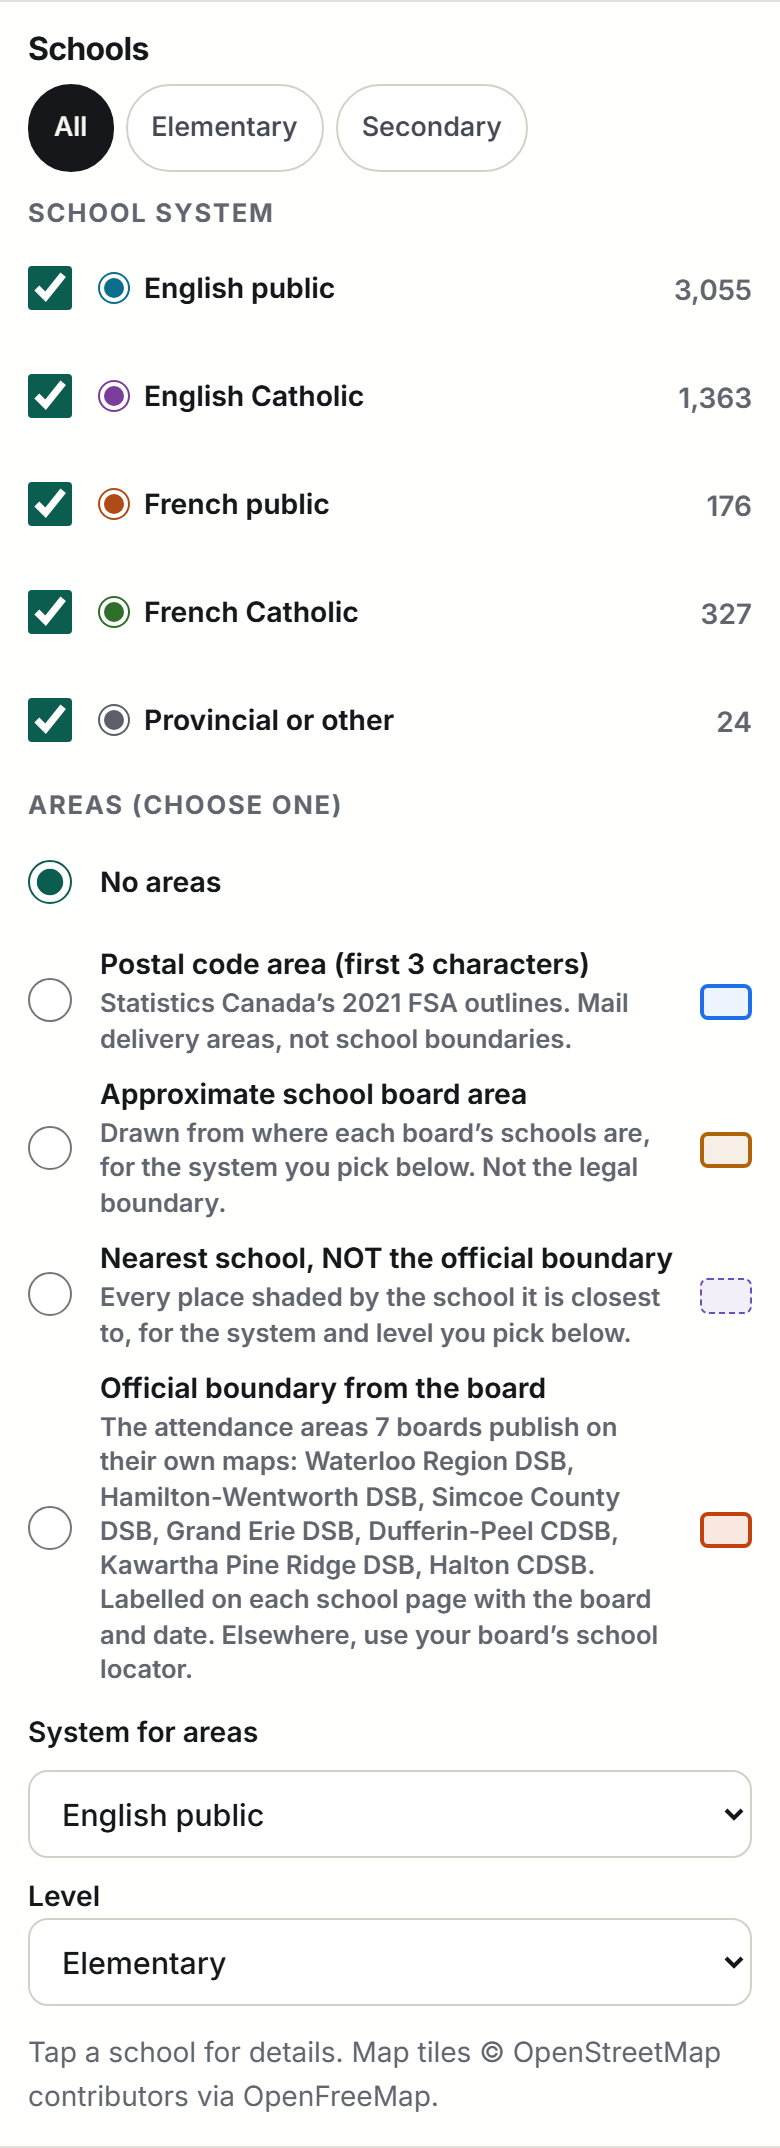
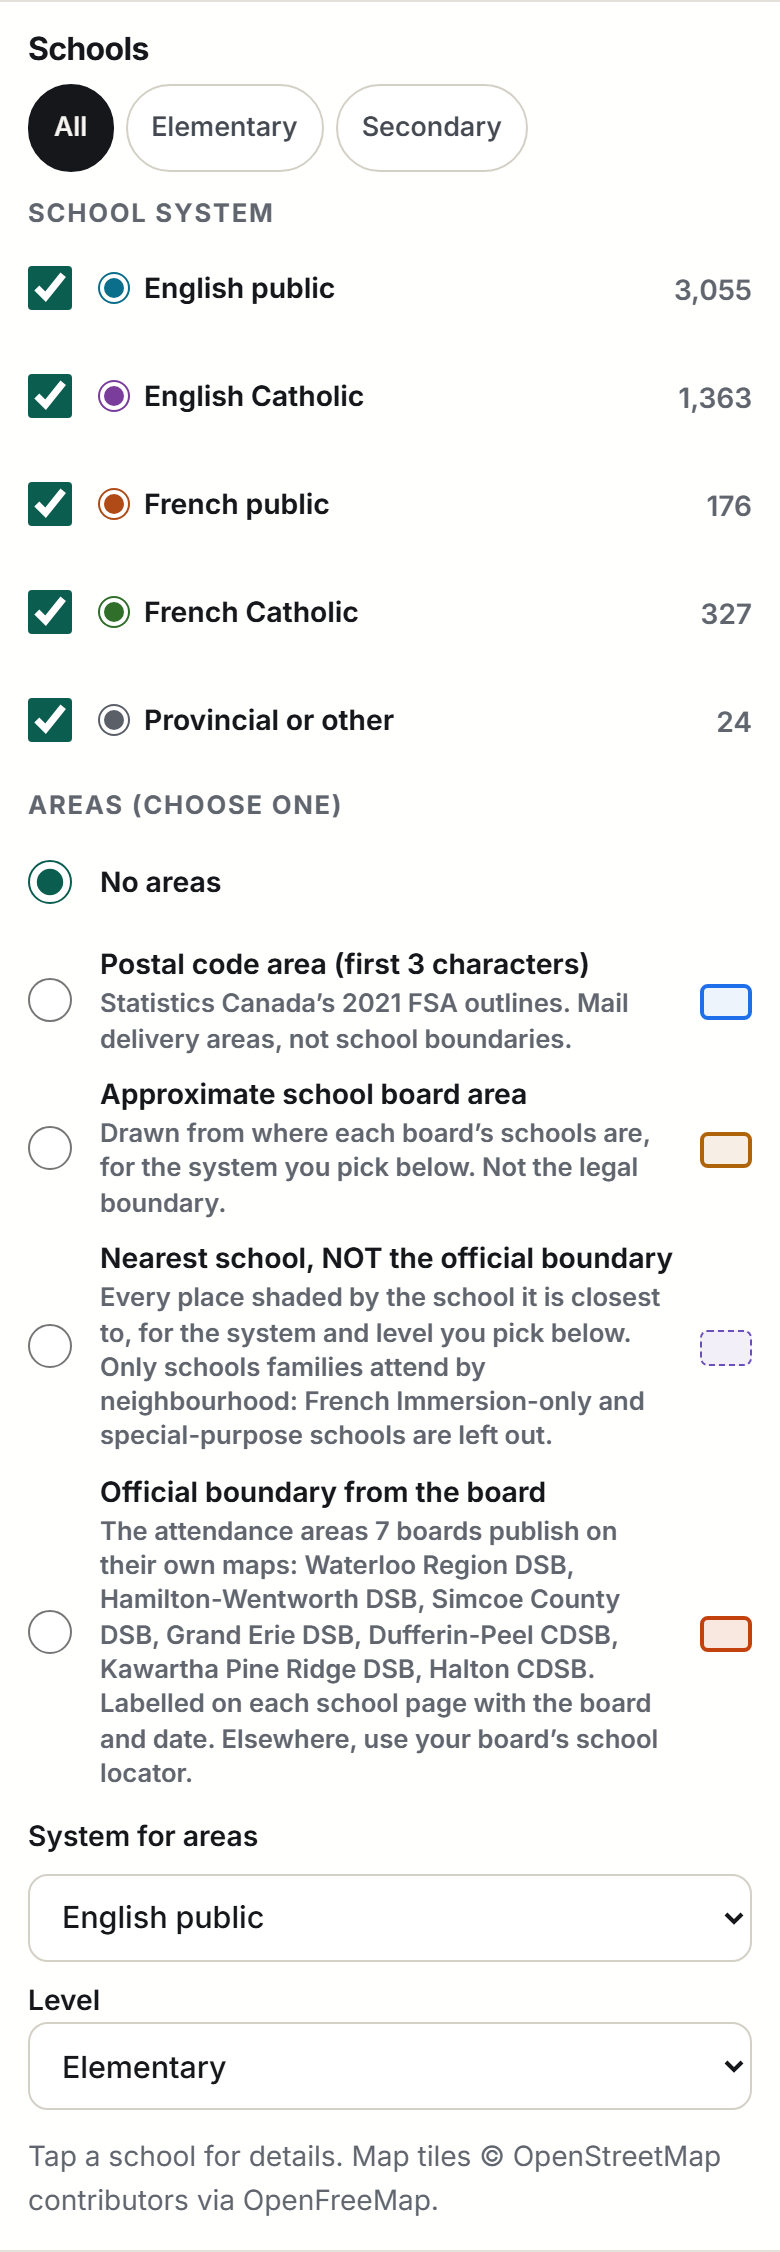
Flush: badges on postal-area lists, honest data licences, A to Z postal search
- Postal-area school lists show the same program badges as search,
  school, board and Compare pages.
- Data page: the per-school and per-board JSON also carry board
  boundaries (no licence, shown pending permission) and board spending
  (no licence stated), which the open-licence attribution doesn't cover;
  the attribution adds EQAO's "used under licence".
- Map: the nearest-school layer says Immersion-only and special-purpose
  schools are left out.
- Search: a postal-area search is already A to Z, so it no longer offers
  a misleading "Best match" order.
- Compare: drop the child-care row repeated from "At a glance".

diff --git a/site/templates/data.html b/site/templates/data.html
@@ -21,7 +21,8 @@
   <div class="doc" style="margin-top:40px">
     <div class="prose doc-main">
       <h2 id="licence">Licence and attribution</h2>
-      <p>The source data is published under the <a href="https://www.ontario.ca/page/open-government-licence-ontario" rel="noopener">Open Government Licence – Ontario</a> and the <a href="https://www.statcan.gc.ca/en/reference/licence" rel="noopener">Statistics Canada Open Licence</a>. If you reuse these files, please keep the source ids and include the attribution text in the box.</p>
+      <p>The CSV downloads come from data published under the <a href="https://www.ontario.ca/page/open-government-licence-ontario" rel="noopener">Open Government Licence – Ontario</a> (including EQAO’s open data, used under licence) and the <a href="https://www.statcan.gc.ca/en/reference/licence" rel="noopener">Statistics Canada Open Licence</a>. If you reuse these files, please keep the source ids and include the attribution text in the box.</p>
+      <p>The per-school and per-board JSON files also carry two things without an open licence: official attendance boundaries from seven boards’ public map layers (no licence stated; shown while we ask each board for permission) and board spending from the Ministry’s financial statements (published without a licence). The attribution doesn’t cover those; the licence of every source is on <a href="/methodology/#sources">How it works</a>. Information we summarise from boards’ own web pages is linked, not copied.</p>
       <p>Each row’s <code>source_id</code> matches a line in <code>sources.csv</code>, which lists the original URL, licence and retrieval date. Coded values (suppressed, not reported, not applicable) are empty with a <code>code</code> column — never 0. See <a href="/methodology/">How it works</a>.</p>
       <p>Per-school JSON files are at <code>/data/schools/&lt;BSID&gt;.json</code>, and the full pipeline report is at <a href="/data/report.md">/data/report.md</a>.</p>
     </div>
@@ -29,6 +30,7 @@
       <div class="card glance-card">
         <p class="eyebrow">Attribution to include</p>
         <pre class="attribution" id="attribution">Contains information licensed under the Open Government Licence – Ontario.
+EQAO data: used under licence (Education Quality and Accountability Office).
 Adapted from Statistics Canada, 2021 Census of Population and 2021 boundary files. This does not constitute an endorsement by Statistics Canada of this product.
 Compiled by Ontario School Finder ({{ site_url }}).</pre>
         <div class="doc-actions"><button class="btn btn-sm" type="button" data-copy="#attribution"><span>Copy the text</span></button></div>

diff --git a/site/static/js/search-page.js b/site/static/js/search-page.js
@@ -26,7 +26,8 @@ let heading = "";
 let shown = 30;
 let mapRows = [];
 let mapRef = null;
-let sortBy = ""; // "" = the default for the kind of search: nearest first for a location, best match for text
+let sortBy = ""; // "" = the default for the kind of search: nearest first for a location, best match for text, A to Z for a postal area
+let textSearch = true; // a postal-area search lists schools A to Z already, so it has no "best match" order
 let showUnknownGrades = false;
 if (!GRADE_ORDER.includes(filters.grade)) filters.grade = "all";
 
@@ -48,7 +49,7 @@ function applyFilters(rows) {
 // Order: best match (the search's own order), A to Z, or nearest first (straight-line, when there is a location).
 // There is deliberately no ordering by results: this is not a leaderboard.
 function sorted(rows) {
-  const by = sortBy || (distances ? "dist" : "rel");
+  const by = sortBy || (distances ? "dist" : textSearch ? "rel" : "az");
   if (by === "az") return [...rows].sort((a, b) => a.n.localeCompare(b.n, "en-CA", { sensitivity: "base" }));
   if (by === "dist" && distances) return [...rows].sort((a, b) => (distances.get(a.id) ?? 1e9) - (distances.get(b.id) ?? 1e9));
   return rows;
@@ -60,8 +61,9 @@ function gradeSelect() {
 }
 
 function sortSelect() {
-  const by = sortBy || (distances ? "dist" : "rel");
-  const opts = [...(distances ? [["dist", "Nearest first (straight line)"]] : [["rel", "Best match"]]), ["az", "Name, A to Z"]];
+  const by = sortBy || (distances ? "dist" : textSearch ? "rel" : "az");
+  const opts = [...(distances ? [["dist", "Nearest first (straight line)"]] : textSearch ? [["rel", "Best match"]] : []), ["az", "Name, A to Z"]];
+  if (opts.length < 2) return ""; // a postal area lists A to Z only: no choice to offer
   return `<label class="sel"><span>Order</span><select data-sort>${opts.map(([v, t]) => `<option value="${v}"${by === v ? " selected" : ""}>${esc(t)}</option>`).join("")}</select></label>`;
 }
 
@@ -180,6 +182,7 @@ async function run() {
     top += `<a class="card" href="/fsa/${res.fsa}/" style="display:block;text-decoration:none;color:inherit;margin-bottom:16px"><p class="eyebrow" style="margin:0">Postal area</p><h2 style="margin:.2em 0">${res.fsa}</h2><p class="muted" style="margin:0">Map of the area, its schools, 2021 Census context and licensed child care →</p></a>`;
     base = res.schools;
     heading = `Schools in postal area ${res.fsa}`;
+    textSearch = false;
     if (!base.length) top += `<div class="note"><div><p>No school has a postal code starting with ${res.fsa}. The area page lists the closest schools.</p></div></div>`;
   } else {
     base = res.allSchools || [];

diff --git a/site/templates/map.html b/site/templates/map.html
@@ -22,7 +22,7 @@
         <li><label class="layer-toggle"><input type="radio" name="area" value="none" checked><span class="lab">No areas</span><span></span></label></li>
         <li><label class="layer-toggle"><input type="radio" name="area" value="fsa"><span><span class="lab">Postal code area (first 3 characters)</span><span class="exp" style="display:block">Statistics Canada’s 2021 FSA outlines. Mail delivery areas, not school boundaries.</span></span><span class="sw sw-fsa"></span></label></li>
         <li><label class="layer-toggle"><input type="radio" name="area" value="board"><span><span class="lab">Approximate school board area</span><span class="exp" style="display:block">Drawn from where each board’s schools are, for the system you pick below. Not the legal boundary.</span></span><span class="sw sw-board"></span></label></li>
-        <li><label class="layer-toggle"><input type="radio" name="area" value="nearest"><span><span class="lab">Nearest school, NOT the official boundary</span><span class="exp" style="display:block">Every place shaded by the school it is closest to, for the system and level you pick below.</span></span><span class="sw sw-near"></span></label></li>
+        <li><label class="layer-toggle"><input type="radio" name="area" value="nearest"><span><span class="lab">Nearest school, NOT the official boundary</span><span class="exp" style="display:block">Every place shaded by the school it is closest to, for the system and level you pick below. Only schools families attend by neighbourhood: French Immersion-only and special-purpose schools are left out.</span></span><span class="sw sw-near"></span></label></li>
         {%- set ob = meta.official_boundaries|default([]) %}
         {%- set ob_boards = ob|map(attribute="board")|unique|list %}
         {% if ob %}

diff --git a/site/static/js/compare.js b/site/static/js/compare.js
@@ -164,7 +164,6 @@ function overview(schools) {
     { label: "Open at this school number since", sub: "1969 is the earliest date the Ministry's list uses; not the building's age", cells: schools.map((s) => esc(s.family?.opened || "—")), raw: schools.map((s) => s.family?.opened || "") },
     { label: "Students (latest)", cells: schools.map((s) => { const e = latestEnrol(s); return e ? `${num(e.value)}<div class="small muted">${esc(e.year)}</div>` : "—"; }), raw: schools.map((s) => latestEnrol(s)?.value) },
     { label: "Enrolment change (5 years)", cells: schools.map((s) => { const c = change(s); return c ? `${c.d >= 0 ? "+" : "−"}${num(Math.abs(c.d))}<div class="small muted">since ${esc(c.since)}</div>` : "—"; }), raw: schools.map((s) => change(s)?.d) },
-    { label: "Licensed child care at the school", cells: schools.map((s) => (s.childcare.at_address.length ? `Yes (${s.childcare.at_address.length})` : "No")), raw: schools.map((s) => s.childcare.at_address.length) },
     {
       label: "EarlyON centres in the postal area", sub: "free programs for children up to 6",
       cells: schools.map((s) => (s.earlyon_in_fsa ? `<a href="/fsa/${s.fsa}/#earlyon">${s.earlyon_in_fsa}</a>` : "None listed")),

diff --git a/site/templates/fsa.html b/site/templates/fsa.html
@@ -40,7 +40,7 @@
       <div class="card" style="padding:16px 16px 6px">
         <h3 style="display:flex;align-items:center;gap:8px;flex-wrap:wrap">{{ sysbadge(g.system, g.system_label) }} {{ g.level|capitalize }} <span class="muted small" style="font-weight:500">({{ g.entries|length }})</span></h3>
         <ul class="list">{% for s in g.entries %}
-          <li><a class="row-link" href="/school/{{ s.bsid }}/"><span class="main"><span class="t">{{ s.name }}</span><span class="s" style="display:block">{{ s.board_name }} · {{ s.grades }}{% if not s.inside %} · <em>just outside {{ f.fsa }}</em>{% endif %}</span></span>{{ icon("chev", "chev") }}</a></li>
+          <li><a class="row-link" href="/school/{{ s.bsid }}/"><span class="main"><span class="t">{{ s.name }}</span><span class="s" style="display:block">{{ s.board_name }} · {{ s.grades }}{% if not s.inside %} · <em>just outside {{ f.fsa }}</em>{% endif %}</span>{% if s.badges %}<span class="prog-badges">{% for b in s.badges %}<span class="badge badge-prog prog-{{ b.key }}">{{ b.label }}</span>{% endfor %}</span>{% endif %}</span>{{ icon("chev", "chev") }}</a></li>
         {% endfor %}</ul>
       </div>
       {% endfor %}

diff --git a/site/generate.py b/site/generate.py
@@ -646,7 +646,8 @@ class Site:
                 continue
             seen.add(bsid)
             s = self.schools[bsid]
-            groups[(s["system"], s["level"])].append({"bsid": bsid, "name": s["name"], "board_name": s["board_name"], "grades": s["grades"], "inside": inside})
+            groups[(s["system"], s["level"])].append({"bsid": bsid, "name": s["name"], "board_name": s["board_name"], "grades": s["grades"], "inside": inside,
+                                                   "badges": family.program_badges(s, self.info.board_listed(s))})
         glist = []
         for system in SYSTEM_ORDER:
             for level in ("elementary", "secondary"):
